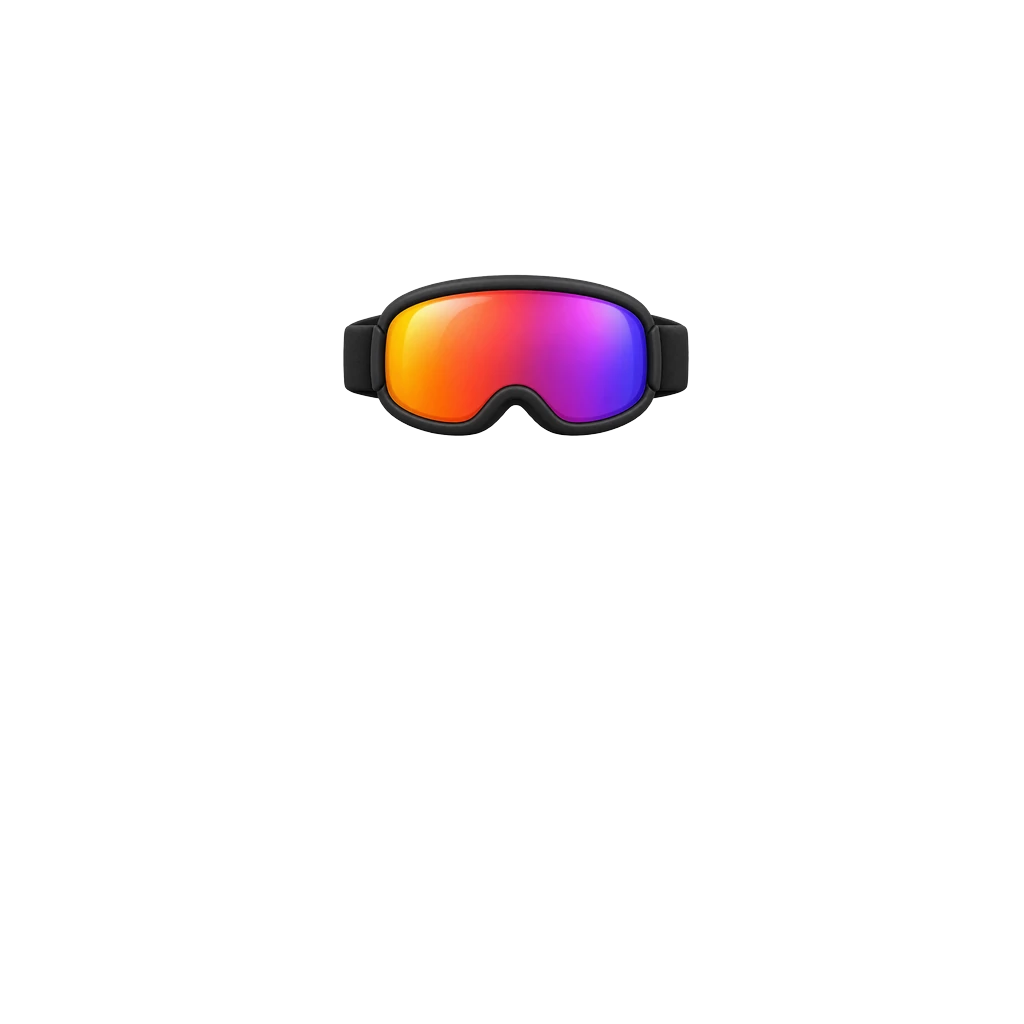
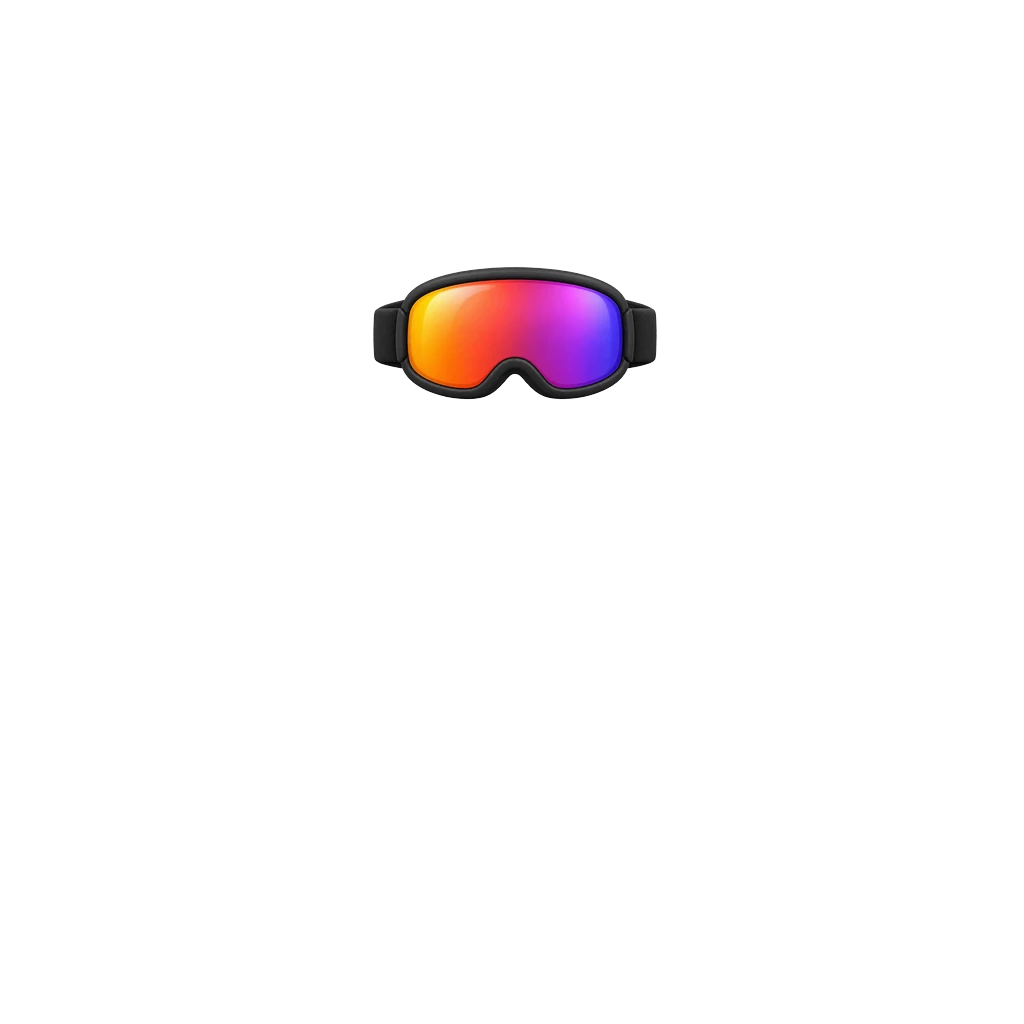
꾸미기 3차: 목·발 아이템 10종 추가, 얼굴·입 아이템 자리를 입선에 맞게 다듬는다

Changed region(s): [[0.3125, 0.25, 0.6875, 0.4375]]

diff --git a/lib/features/avatar/avatar_equip.dart b/lib/features/avatar/avatar_equip.dart
@@ -399,6 +399,42 @@ const List<WardrobeItem> kWardrobe = [
     slot: AvatarSlot.neck,
     meritCost: 1300,
   ),
+  WardrobeItem(
+    id: 'acc_bib',
+    name: '턱받이',
+    slot: AvatarSlot.neck,
+    meritCost: 500,
+  ),
+  WardrobeItem(
+    id: 'acc_neckpillow',
+    name: '목베개',
+    slot: AvatarSlot.neck,
+    meritCost: 700,
+  ),
+  WardrobeItem(
+    id: 'acc_lei',
+    name: '꽃목걸이',
+    slot: AvatarSlot.neck,
+    meritCost: 800,
+  ),
+  WardrobeItem(
+    id: 'acc_goldchain',
+    name: '금 체인',
+    slot: AvatarSlot.neck,
+    meritCost: 1500,
+  ),
+  WardrobeItem(
+    id: 'acc_filmcamera',
+    name: '필름 카메라',
+    slot: AvatarSlot.neck,
+    meritCost: 1000,
+  ),
+  WardrobeItem(
+    id: 'acc_neckphones_mint',
+    name: '민트 헤드폰',
+    slot: AvatarSlot.neck,
+    meritCost: 900,
+  ),
 
   // 입 — 풍선껌은 절 화면에서 부풀었다 터져 입에 붙는다 (BubbleGumMotion).
   WardrobeItem(
@@ -457,6 +493,30 @@ const List<WardrobeItem> kWardrobe = [
     name: '흰 운동화',
     slot: AvatarSlot.feet,
     meritCost: 600,
+  ),
+  WardrobeItem(
+    id: 'feet_flippers',
+    name: '오리발',
+    slot: AvatarSlot.feet,
+    meritCost: 700,
+  ),
+  WardrobeItem(
+    id: 'feet_slippers',
+    name: '슬리퍼와 흰 양말',
+    slot: AvatarSlot.feet,
+    meritCost: 500,
+  ),
+  WardrobeItem(
+    id: 'feet_hightops',
+    name: '빨간 스니커즈',
+    slot: AvatarSlot.feet,
+    meritCost: 900,
+  ),
+  WardrobeItem(
+    id: 'feet_platformboots',
+    name: '통굽 부츠',
+    slot: AvatarSlot.feet,
+    meritCost: 1000,
   ),
 
   // 대좌

diff --git a/test/avatar_test.dart b/test/avatar_test.dart
@@ -494,10 +494,10 @@ void main() {
         'assets/avatar/halo_ring.webp',
         'assets/avatar/seat_lotus.webp',
         'assets/avatar/base_lavender.webp',
-        'assets/avatar/feet_sneakers.webp',
+        'assets/avatar/feet_platformboots.webp',
         'assets/avatar/head_bucket.webp',
         'assets/avatar/acc_cybervisor.webp',
-        'assets/avatar/acc_goldbeads.webp',
+        'assets/avatar/acc_neckphones_mint.webp',
         'assets/avatar/mouth_grillz.webp',
       ]);
     });

diff --git a/tools/build_avatar_assets.py b/tools/build_avatar_assets.py
@@ -105,24 +105,47 @@ OVERLAYS = {
 #   운동화    두 짝 간격을 두 발 간격보다 조금 넓게(128) 잡아 발가락까지
 #             덮고, 가사 밑단 안쪽은 지운다
 #   과녁 안대 원본 과녁 중심과 지름(약 529)을 왼쪽 눈과 100px에 맞춘다
-#   스노클    두 렌즈 중심 간격(408)을 눈 간격에 맞춰 오른쪽 대롱도 함께 둔다
-#   VR 고글   검은 앞판 폭(882)을 230px로 맞춰 백호 아래, 입 위에 둔다
-#   오이 팩   눈 간격대로 키우면 지름이 114px가 되어 입선에 닿아, 지름 85px를 우선한다
-#   스키 고글 미러 렌즈 폭(703)을 250px로 맞춰 두 눈을 한 장으로 덮는다
+#   스노클    두 렌즈 중심 간격(408)을 눈 간격에 맞추면 아래 테가 입선을 덮어,
+#             15% 줄이고 10px 올린다
+#   VR 고글   앞판 폭(882)을 230px로 맞추면 아래 테가 입선을 덮어 입 아이템이 고글
+#             위에 뜬다. 15% 줄이고 16px 올린다. 백호는 그대로 보인다
+#   오이 팩   v1 은 두 조각 간격(585)이 지름(423)에 비해 좁아, 눈 간격에 맞추면
+#             지름 114px로 입선에 닿고 지름에 맞추면 눈 끝이 삐져나왔다. v2 는
+#             조각만 떼어 간격을 695 로 벌린 것. 눈 간격에 맞추면 지름 약 95px
+#   스키 고글 렌즈 폭(703)을 250px로 맞추면 코 홈까지 입선을 덮어 입 아이템이 렌즈
+#             위에 뜬다. 18% 줄이고 22px 올려 홈 사이로 입이 보이게 한다
 #   하트 안경 눈 간격 배율은 아래 테가 입꼬리에 닿아 16% 줄이고 중심을 11px 낮춰 잡는다
 #   별 안경   눈 간격 배율은 별 아래 테가 입꼬리에 닿아 20% 줄이고 중심을 14px 낮춰 잡는다
-#   바이저    전체 폭(908)을 300px로 맞춰 얇은 띠가 두 눈 높이를 가로지르게 한다
+#   바이저    가운데가 아래로 휜 띠라 폭 300px 에서는 입선을 덮어, 270px 로
+#             줄이고 14px 올린다. 눈썹은 띠 위로 보인다
 #   후광      원본 링(중심 510.5, 298.5) 그대로는 테가 민머리 윤곽에 겹치고 비니·
 #             모자에 다 덮인다. 1.4배로 키워 링 중심을 두 눈 가운데에 두면 테
 #             안쪽 지름이 약 510px로 비니(폭 약 470)보다 넓어 머리 둘레로 드러난다.
 #             위쪽 빛 번짐은 캔버스 위로 몇 px 잘리지만 거의 투명한 부분이다
-#   쪽쪽이    흰 방패판 폭(822)을 80px로 맞춰 입선을 작게 덮는다
-#   붕어빵    문 머리 끝에서 꼬리 끝까지(801)를 150px로 맞추면 꼬리가 y≈495에서 끝난다
+#   쪽쪽이    흰 방패판 폭(822)을 80px로 맞춰 입선을 덮고, 안경 아래 테에
+#             닿지 않게 입보다 9px 낮춘다
+#   붕어빵    머리 끝에서 꼬리 끝까지(801)를 115px로. 150px 이면 볼과 턱 아래까지
+#             덮었다. 문 머리가 입 가운데에 오게 14px 왼쪽으로
 #   떡꼬치    꼬치 전체 폭(905)을 220px로 맞춰 눈 아래에서 가로로 문다
 #   호루라기  무는 끝을 입에 맞추고 전체 폭(648)을 90px로 줄여 몸통이 턱 위에서 끝난다
 #   콧수염    폭(824)을 130px로 맞추고 원본 기준점을 낮춰 아래 끝이 y=392에서 끝나게 한다
 #   막대사탕  지름 110px면 눈에 닿아 90px로 줄이고 입보다 5px 낮춰 사탕 위가 y≈358에 온다
 #   금니 웃음 전체 폭(776)을 70px로 맞춰 원래 입선을 빠짐없이 덮는다
+#   턱받이    전체 폭(850)을 200px로 맞춰 목에서 가슴 위로 내리고 손 뒤로 숨긴다
+#   목베개    전체 폭(840)을 220px로 맞춰 턱 바로 밑(y 505)에 걸고 손 뒤로 숨긴다.
+#             더 내리면 가슴에 떠서 손 앞을 가리고, 더 올리면 입선을 덮는다
+#   꽃목걸이  전체 폭(684)을 215px로 맞춰 가슴까지 내리고 손 뒤로 숨긴다.
+#             260px 은 어깨 밖으로 넘쳤다
+#   금 체인   전체 폭(953)을 180px로 맞춰 목 밑동(기준점 y 460)에 건다. 더 올리면
+#             턱 선에 걸치고, 펜던트는 이 자리에서도 손끝 위에 보인다
+#   필름 카메라 작은 본체를 손 오른쪽에 두려고 끈 기준점을 13px 오른쪽으로 옮긴다
+#   민트 헤드폰 원본과 모양·알파가 같아서 헤드폰의 위치와 BAND 가림 값을 그대로 쓴다
+#   오리발    두 짝 간격(354.4)을 128px로 맞추고 날개 끝을 발바닥 아래 y=990에 둔다
+#   슬리퍼    128px 간격에서는 발 가장자리가 비쳐 108px로 안쪽에 모으고 9px 내렸다
+#   스니커즈  (빨간 하이탑. 발목은 가사에 덮여 앞코만 보인다) 간격 136px, 바닥 y 927.
+#             더 올리면 밑창 아래로 발가락이 나와 SHOE_GAP_SHADOW 띠가 생기고,
+#             더 내리면 발등이 비친다
+#   통굽 부츠 128px 간격에서 발 15px가 비쳐 118px로 모으고 밑창 끝을 y=958에 둔다
 PLACED = {
     "acc_sunglasses": ("eyes", 156 / 452 * 0.94, (512, 515), (510, 356), ()),
     "acc_trafficlight": ("eyes", 156 / 239, (661, 289), (510, 356), ()),
@@ -133,21 +156,31 @@ PLACED = {
     "mouth_bubblegum": ("mouth", 105 / 829, (626.5, 621), (510, 412), ()),
     "mouth_bubblegum_popped": ("mouth", 120 / 940, (634, 646.5), (510, 410), ()),
     "acc_targetpatch": ("eyes", 100 / 529, (657, 667), (432, 356), ()),
-    "acc_snorkel": ("eyes", 156 / 408, (626, 808), (510, 356), ()),
-    "acc_vr": ("eyes", 230 / 882, (627, 637), (510, 356), ()),
-    "acc_cucumber": ("eyes", 85 / 422, (643, 692), (510, 356), ()),
-    "acc_skigoggles": ("eyes", 250 / 703, (611, 633), (510, 356), ()),
+    "acc_snorkel": ("eyes", 156 / 408 * 0.85, (626, 808), (510, 346), ()),
+    "acc_vr": ("eyes", 230 / 882 * 0.85, (627, 637), (510, 340), ()),
+    "acc_cucumber": ("eyes", 156 / 695, (642.5, 692), (510, 353), ()),
+    "acc_skigoggles": ("eyes", 250 / 703 * 0.82, (611, 633), (510, 334), ()),
     "acc_heartshades": ("eyes", 156 / 436 * 0.84, (626, 650), (510, 356), ()),
     "acc_partystars": ("eyes", 156 / 489 * 0.80, (627, 655), (510, 356), ()),
-    "acc_cybervisor": ("eyes", 300 / 908, (628, 637), (510, 356), ()),
+    "acc_cybervisor": ("eyes", 300 / 908 * 0.9, (628, 637), (510, 342), ()),
     "halo_ring": ("head", 1.4, (510.5, 298.5), (510, 356), ()),
-    "mouth_pacifier": ("mouth", 80 / 822, (627, 569), (510, 400), ()),
-    "mouth_bungeoppang": ("mouth", 150 / 801, (258, 484), (510, 400), ()),
+    "mouth_pacifier": ("mouth", 80 / 822, (627, 569), (510, 405), ()),
+    "mouth_bungeoppang": ("mouth", 115 / 801, (258, 484), (496, 398), ()),
     "mouth_tteokkochi": ("mouth", 220 / 905, (629.5, 633), (510, 400), ()),
     "mouth_whistle": ("mouth", 90 / 648, (308, 486), (510, 400), ()),
     "mouth_mustache": ("mouth", 130 / 824, (627, 704), (510, 380), ()),
     "mouth_lollipop": ("mouth", 90 / 480, (164, 632), (510, 405), ()),
     "mouth_grillz": ("mouth", 70 / 776, (627, 667), (510, 400), ()),
+    "acc_bib": ("neck", 200 / 850, (627, 250), (512, 478), ("hands",)),
+    "acc_neckpillow": ("neck", 220 / 840, (627, 700), (512, 505), ("hands",)),
+    "acc_lei": ("neck", 215 / 684, (635, 205), (512, 472), ("hands",)),
+    "acc_goldchain": ("neck", 180 / 953, (626.5, 488), (512, 460), ("hands",)),
+    "acc_filmcamera": ("neck", 0.45, (434, 462), (525, 478), ("hands",)),
+    "acc_neckphones_mint": ("neck", 0.34, (512, 477), (512, 470), ("band", "hands")),
+    "feet_flippers": ("feet", 128 / 354.4, (626.7, 853), (511, 990), ("robe",)),
+    "feet_slippers": ("feet", 108 / 389.9, (627, 982), (511, 945), ("robe",)),
+    "feet_hightops": ("feet", 136 / 403.8, (626.5, 944), (511, 927), ("robe",)),
+    "feet_platformboots": ("feet", 118 / 417.6, (627.5, 990), (511, 958), ("robe",)),
 }
 
 # 옷장 아이템이 아니라 연출에만 쓰는 레이어. 썸네일을 만들지 않는다.
@@ -175,7 +208,7 @@ def load(name: str, any_size: bool = False) -> Image.Image:
 
     any_size — 물건만 그려 받은 소품. 배율로 줄여 놓으니 정사각이기만 하면 된다.
     """
-    path = SRC / f"{name}.png"
+    path = latest_source(name)
     if not path.exists():
         raise SystemExit(f"{path} 가 없다")
     image = Image.open(path)
@@ -208,16 +241,21 @@ def cut_head(full: Image.Image) -> Image.Image:
     return head
 
 
-def face_source(name: str) -> Path:
-    """머리 아이템의 얼굴 원본. _v2, _v3 … 가 있으면 가장 높은 번호."""
+def latest_source(stem: str) -> Path:
+    """Imgs/ 원본. 원본은 덮어쓰지 않으므로 _v2, _v3 … 가 있으면 가장 높은 번호."""
     versions = []
-    for path in SRC.glob(f"{name}_face_v*.png"):
+    for path in SRC.glob(f"{stem}_v*.png"):
         suffix = path.stem.rsplit("_v", 1)[1]
         if suffix.isdigit():
             versions.append((int(suffix), path))
     if versions:
         return max(versions)[1]
-    return SRC / f"{name}_face.png"
+    return SRC / f"{stem}.png"
+
+
+def face_source(name: str) -> Path:
+    """머리 아이템의 얼굴 원본."""
+    return latest_source(f"{name}_face")
 
 
 def fit_face(face: Image.Image, fit, base: Image.Image) -> Image.Image:

diff --git a/tools/make_avatar_thumbs.py b/tools/make_avatar_thumbs.py
@@ -16,7 +16,8 @@ from pathlib import Path
 from PIL import Image, ImageChops, ImageDraw, ImageFilter
 
 from avatar_anchors import REFERENCE
-from build_avatar_assets import ALPHA_FLOOR, MOTION_ONLY, PLACED, save_layer
+from build_avatar_assets import (ALPHA_FLOOR, MOTION_ONLY, PLACED, latest_source,
+                                 save_layer)
 
 ROOT = Path(__file__).resolve().parent.parent
 SRC = ROOT / "assets" / "avatar"
@@ -220,7 +221,7 @@ def main() -> None:
     for name in PLACED:
         if name in MOTION_ONLY:
             continue
-        image = Image.open(RAW / f"{name}.png").convert("RGBA")
+        image = Image.open(latest_source(name)).convert("RGBA")
         image.putalpha(image.getchannel("A").point(
             lambda v: 0 if v < ALPHA_FLOOR else v))
         box = pad_box(alpha_bbox(image), *image.size)

diff --git a/docs/커스터마이징_파츠_발주서.md b/docs/커스터마이징_파츠_발주서.md
@@ -141,14 +141,16 @@
 | id | 이름 | | `{설명}` | `{착용}` | 자리·크기 | 숨길 곳 | 공덕 |
 |---|---|---|---|---|---|---|---|
 | `acc_bib` | 턱받이 | 🤪 | 흰 바탕에 하늘색 테두리를 두른 아기 턱받이. 가운데에 빨간 자수 한글 **「공덕 흘림 주의」** | 목 둘레에 둘러 가슴 위로 늘어진다 | 위 가운데 → `(512, 478)`, 폭 약 200 | `hands` | 500 |
-| `acc_neckpillow` | 목베개 | 🤪 | 도톰한 회색 U자 여행용 목베개 | 정면에서 본 착용 모습. 목을 감싸고 양 끝이 턱 아래 앞쪽으로 모인다 | U 가운데 아래 → `(512, 478)`, 폭 약 230 | 없음 | 700 |
+| `acc_neckpillow` | 목베개 | 🤪 | 도톰한 회색 U자 여행용 목베개 | 정면에서 본 착용 모습. 목을 감싸고 양 끝이 턱 아래 앞쪽으로 모인다 | U 가운데 아래 → `(512, 505)`(턱 바로 밑), 폭 약 220 | `hands` | 700 |
 | `acc_lei` | 꽃목걸이 | 🤪 | 하와이 레이. 분홍·노랑·주황 꽃만 촘촘히 엮은 둥근 고리, 잎 없음 | 목에 걸어 가슴까지 늘어진다 | 위 가운데 → `(512, 470)`, 폭 약 260 | `hands` | 800 |
 | `acc_goldchain` | 금 체인 | 😎 | 굵은 금색 쿠반 체인, 아래 가운데에 작은 금색 **목탁** 펜던트 | 짧게 걸려 펜던트가 손끝보다 위에 온다 | 위 가운데 → `(512, 466)`, 폭 약 200, **펜던트 아래 끝 y 510 위** | `hands` | 1500 |
 | `acc_filmcamera` | 필름 카메라 | 😎 | 은색·검정 레트로 필름 카메라와 검은 끈 | 끈이 목 양옆에서 내려와, 카메라는 보는 사람 기준 **오른쪽 가슴 옆**(손과 겹치지 않게). 목 뒤로 넘어가는 끈은 그리지 않는다 | 끈 두 시작점 가운데 → `(512, 478)`, 카메라 중심 약 `(650, 560)` | `hands` | 1000 |
 | `acc_neckphones_mint` | 민트 헤드폰 | 😎 | **새로 그리지 않는다.** 아래 참고 | — | `acc_neckphones`와 같은 값 | `band`, `hands` | 900 |
 
 - `acc_bib`의 글자가 틀리게 나오면 다시 받는다. 세 번 안 되면 글자 대신 작은 연꽃 자수로 받는다.
-- `acc_neckphones_mint`는 `Imgs/acc_neckphones.png`를 스크립트로 **색상만** 민트로 돌려 `Imgs/acc_neckphones_mint.png`로 저장한다. 모양·좌표가 같아야 `BAND` 다각형과 `PLACED` 값을 그대로 쓸 수 있다. GPT로 다시 그리면 좌표가 어긋난다.
+- `acc_neckphones_mint`는 `Imgs/acc_neckphones.png`를 스크립트로 민트로 바꿔 `Imgs/acc_neckphones_mint.png`로 저장한다. 모양·좌표가 같아야 `BAND` 다각형과 `PLACED` 값을 그대로 쓸 수 있다. GPT로 다시 그리면 좌표가 어긋난다.
+  - 색상(hue)만 돌리면 색이 있는 쿠션·밴드만 바뀌고 **흰 컵은 그대로**여서 원래 헤드폰과 거의 같아 보였다. 채도가 낮고 밝은 픽셀(컵)은 밝기 음영을 살려 민트 두 색 사이로 물들였다.
+- `acc_neckpillow`는 처음에 얼굴을 피하려고 가슴(y 560)까지 내려 손 앞에 떠 있었다. 목베개는 턱 밑에 닿아야 목베개로 읽힌다. 입선이 보이는 데까지만 올리고 손 뒤로 숨긴다.
 
 ### 발 (4종) — 물건만, 앵커 `"feet"`
 
@@ -160,7 +162,7 @@
 |---|---|---|---|---|---|
 | `feet_flippers` | 오리발 | 🤪 | 형광 노랑 고무 오리발. 정면에서 봐서 앞으로 뻗은 날개가 아래쪽으로 넓게 퍼져 보인다 | 두 짝 간격 → 128. **발바닥 아래로 80px 안**에서 끝 | 700 |
 | `feet_slippers` | 슬리퍼와 흰 양말 | 🤪 | 흰 목양말 위에 신은 검은 슬리퍼, 발등 띠에 흰 줄 **두** 줄(상표 무늬 피함) | 두 짝 간격 → 128 | 500 |
-| `feet_hightops` | 하이탑 | 😎 | 빨강·흰 하이탑 스니커즈, 흰 끈, 두툼한 흰 밑창. 로고 없음 | 두 짝 간격 → 128. 발목까지 덮지만 가사 밑단 안쪽은 지워진다 | 900 |
+| `feet_hightops` | 빨간 스니커즈 | 😎 | 빨강·흰 하이탑 스니커즈, 흰 끈, 두툼한 흰 밑창. 로고 없음 | 두 짝 간격 → 128(결과 136, 바닥 y 927). 발목은 가사 밑단에 덮여 앞코만 보인다. 그래서 이름을 하이탑에서 바꿨다 | 900 |
 | `feet_platformboots` | 통굽 부츠 | 😎 | 무광 검은 가죽 통굽 부츠, 은색 버클 두 개, 아주 두꺼운 밑창 | 두 짝 간격 → 128. 밑창 아래 끝 y 960 위 | 1000 |
 
 ---

diff --git a/.codex/skills/bucheo-avatar-parts/SKILL.md b/.codex/skills/bucheo-avatar-parts/SKILL.md
@@ -17,7 +17,7 @@ description: bucheo_handsome 저장소(C:\src\bucheo_handsome)에서 docs/커스
 
 - 아이템마다 built-in 이미지 생성을 따로 한 번씩(한 아이템에 한 세션). 모두 `Imgs/base_saffron.png`를 화풍 참조로 첨부.
 - 발주서의 해당 차수 프롬프트에 표의 `{아이템}`·`{설명}`·`{착용}`을 채워 쓴다. 다시 생성할 때는 실패한 조건(여백, 방향, 각도)만 강화하고 원문은 유지.
-- 표에 「새로 그리지 않는다」고 적힌 아이템(기존 그림의 색 변형 등)은 생성하지 않고 PIL 로 만든다. 크기·알파·모양을 원본과 픽셀 단위로 같게.
+- 표에 「새로 그리지 않는다」고 적힌 아이템(기존 그림의 색 변형 등)은 생성하지 않고 PIL 로 만든다. 크기·알파·모양을 원본과 픽셀 단위로 같게. 색상(hue) 회전은 흰·회색 부분을 바꾸지 못하니, 그런 부분은 밝기 음영을 살려 목표 색 두 개 사이로 물들인다.
 - 저장: `Imgs/{id}.png`(머리는 `Imgs/head_{영문}_face.png`). 같은 이름이 있으면 덮어쓰지 말고 `_v2`.
 - 발주서 「받고 바로 볼 것」에 걸리면 저장하지 않고 다시. **3번 실패하면 그 아이템은 건너뛰고** 보고한다.
 
@@ -38,6 +38,7 @@ description: bucheo_handsome 저장소(C:\src\bucheo_handsome)에서 docs/커스
 - `kWardrobe`: 해당 슬롯 묶음 끝에 발주서의 id·이름·공덕으로.
 - 굽기: `python tools/build_avatar_assets.py` → (머리·가사면 `python tools/make_avatar_skins.py`) → `python tools/make_avatar_thumbs.py`
 - 빌드의 검사(발 비침, 비침 400px, `MIN_BODY_SKIN` 등)에 걸리면 값이나 그림을 고친다. **검사 기준을 바꾸지 않는다.**
+- 목에 거는 물건은 얼굴을 피하려고 가슴까지 내리지 않는다(턱 밑에 걸치고 손 뒤로). 발은 밑창 아래로 `SHOE_GAP_SHADOW` 어두운 띠가 보이면 신발이 너무 높은 것이다.
 
 ## 3. 검증
 

diff --git a/.claude/skills/avatar-parts/SKILL.md b/.claude/skills/avatar-parts/SKILL.md
@@ -31,8 +31,8 @@ $bucheo-avatar-parts 로 발주서 {N}차({슬롯} {개수}종)를 진행해 주
 |---|---|
 | 얼굴 | 비니 쓴 머리 위에서도 합성. 백호(이마 가운데 점)를 가리지 않는지. 한쪽 눈만 덮는 것은 베이스 기준점이 그 눈 |
 | 입 | 입술·피부를 그리지 않았는지(재질을 입으면 둘레만 살빛으로 남는다). 선글라스 아래 테와 부딪히는지. 핑크 재질 흉내 합성. `popped:`는 풍선껌 전용 |
-| 목 | 합장한 손 **앞**이 아니라 뒤로 지나가는지(`"hands"`). 펜던트가 손끝 y 514 위. 기존 그림의 색만 바꾸는 변형은 GPT로 다시 그리지 말고 PIL 로 색상만 |
-| 발 | 가사 5종 모두에서 밑단이 신발을 덮는지. 발 비침 빌드 검사를 느슨하게 바꾸지 말 것 |
+| 목 | 합장한 손 **앞**이 아니라 뒤로 지나가는지(`"hands"`). 펜던트가 손끝 y 514 위. 목에 거는 물건을 얼굴 피하려고 가슴까지 내리지 말 것(목베개가 손 앞에 떠 있었다). 기존 그림의 색 변형은 GPT로 다시 그리지 말고 PIL로 — 흰·회색 부분은 색상 회전으로 안 바뀌니 밝기를 살려 물들인다 |
+| 발 | 가사 5종 모두에서 밑단이 신발을 덮는지. 밑창 아래로 어두운 띠(`SHOE_GAP_SHADOW`)가 보이면 신발이 너무 높다. 발 비침 빌드 검사를 느슨하게 바꾸지 말 것 |
 | 대좌 | 발바닥 아래 캔버스가 약 100px — 아래로 잘리지 않는지. 대좌는 몸 뒤 |
 | 후광 | 모자를 써도 보이는지. 움직임(회전)은 넣지 말고 멈춘 그림까지 |
 | 머리 | `--measure` 비침, 모자별 살 경계(`HAT_ERODE`·`FOREHEAD_SEAM`), `skin:` 등록, 핑꾸·돌·옥 재질 |

diff --git a/docs/부처님_리소스_파이프라인.md b/docs/부처님_리소스_파이프라인.md
@@ -208,6 +208,7 @@ PLACED = {
 등록할 곳: `PLACED`(위치) · `kWardrobe`(슬롯·공덕). 썸네일 스크립트는 `PLACED`를 그대로 읽는다.
 
 - 물건 원본은 1024가 아니어도 된다(정사각이면 된다). 배율로 줄여 놓는다.
+- 원본을 고쳐야 하면 덮어쓰지 않고 `acc_cucumber_v2.png`처럼 번호를 붙인다. 빌드와 썸네일은 가장 높은 번호를 쓴다(`latest_source()`). 예: 오이 팩은 두 조각 간격이 좁아 조각만 떼어 벌린 v2 를 쓴다.
 - **움직이는 아이템**(풍선껌)은 그림 두 장을 둘 다 `PLACED`에 넣는다. 두 번째 그림(`mouth_bubblegum_popped`)은 옷장 아이템이 아니라 `MOTION_ONLY`에 넣어 썸네일을 만들지 않고, `kWardrobe`에서 `popped:`로 연결한다.
 
 ### 움직이는 아이템 — 풍선껌
